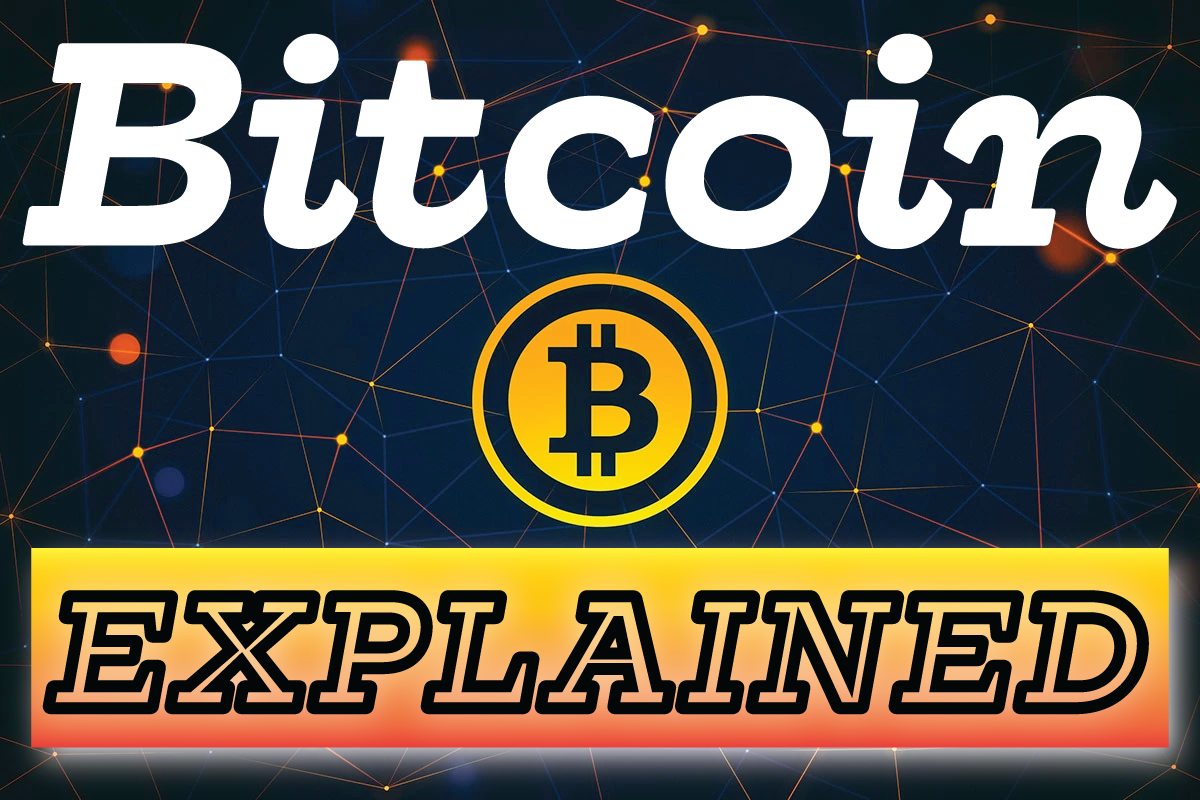
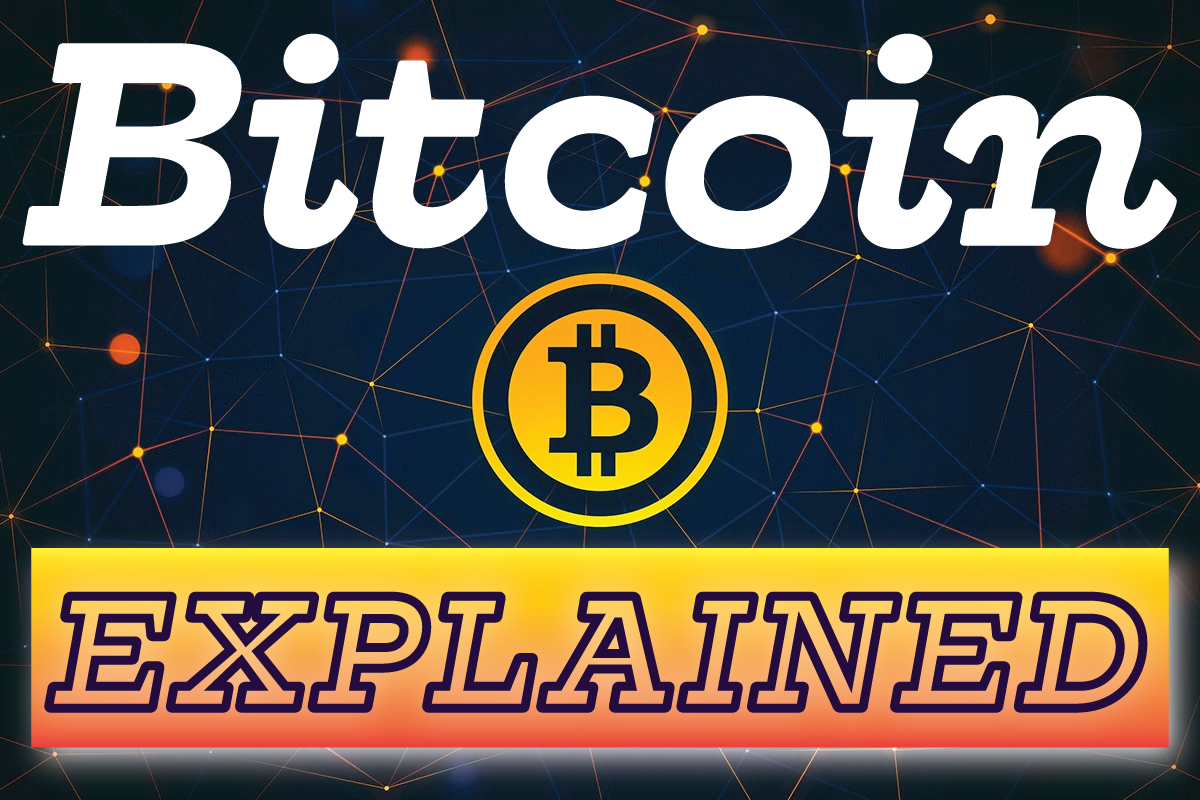
updated articles and bitcoin image

Changed region(s): [[0.0308, 0.7188, 0.9558, 0.9062]]

diff --git a/lib/assets/articles/bitcoinWithmyblockchainblog.md b/lib/assets/articles/bitcoinWithmyblockchainblog.md
@@ -6,13 +6,14 @@ written_at_date: 27-09-2017
 tags: ["Entrepreneurship", "Currency"]
 useful_links: { "My Block Chain Blog" : "https://www.myblockchainblog.com/", 
 								"Chain Link": "https://link.smartcontract.com" }
-people_mentioned:  }
+people_mentioned:  {}
 timestamp: []
 embedded_link: "https://w.soundcloud.com/player/?url=https%3A//api.soundcloud.com/tracks/332969831"
 user_id: 1
 ---
 
 Bitcoin?  Ethereum?  Why are they worth so much?  Is this bubble about to burst?  What are the differences?  What do they do?
+
 Meg & Vega break down Bitcoin in an educative and lucid way in this hour long podcast.  
 
 
